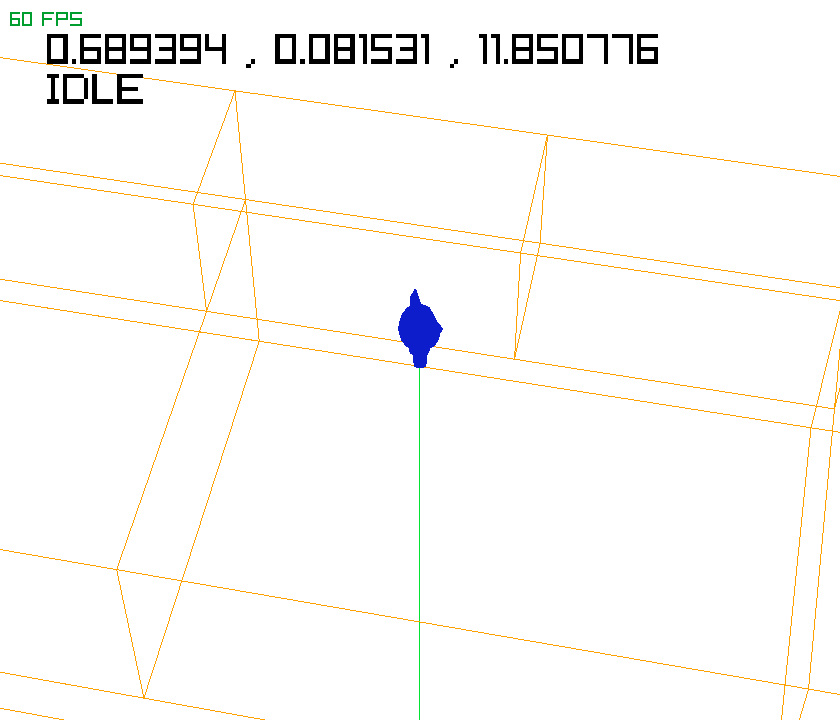
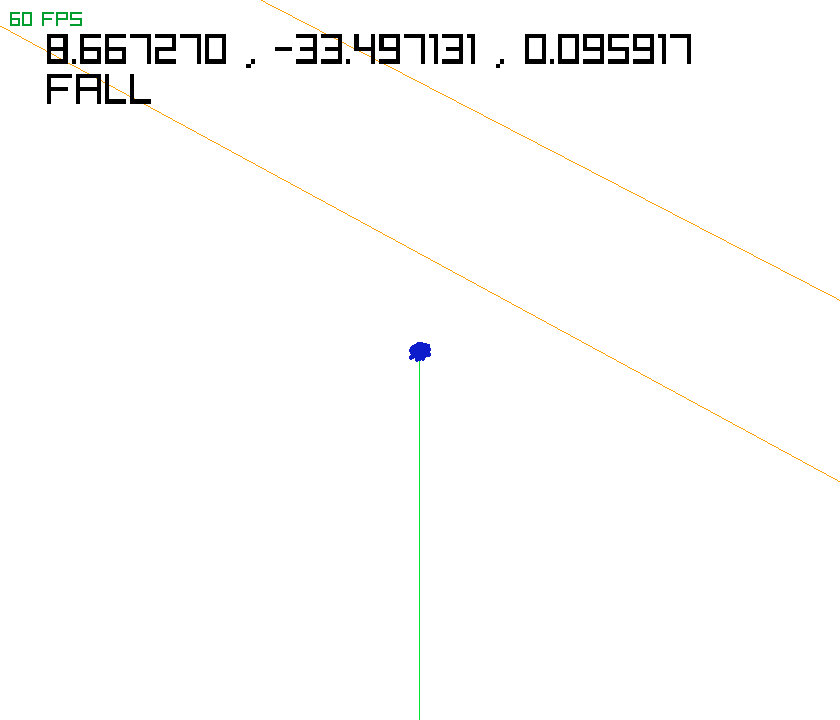
AAAAAAAAAAAAAAAAASDASJDASDSDAASDASDASDASDASDJKASFJLKASFJLKASFJKJKFS

diff --git a/src/player.c b/src/player.c
@@ -35,11 +35,11 @@ unsigned char process_player_is_on_floor(Vector3 position)
 {
 	RayCollision t_rc = {0};
 	
-	for(int i = 0; i < collisions_scene_walls.len; i++)
+	for(int i = 0; i < model_collisions_scene_walls.meshCount; i++)
 	{
-		t_rc = GetRayCollisionBox(
+		t_rc = GetRayCollisionMesh(
 								(Ray){position, DOWN_AXIS},
-								collisions_scene_walls.items[i]
+								model_collisions_scene_walls.meshes[i], MATRIXZERO
 							);
 		if(t_rc.hit)
 		{
@@ -59,54 +59,60 @@ unsigned char process_player_is_on_floor(Vector3 position)
 
 void process_player_collide_walls(float delta, Vector3 temp_position)
 {
-	// Sphere (Vector3){PLAYER.position.x, PLAYER.position.y + .5, PLAYER.position.z}, 0.3f
+	BoundingBox bb = GetModelBoundingBox(model_player);
+	bb.min = Vector3Scale(bb.min, PLAYER.position);
+	bb.max = Vector3Scale(bb.max, PLAYER.position);
+
 	for(int i = 0; i < collisions_scene_walls.len; i++)
+	{
+		
 		if
-		(
-			CheckCollisionBoxSphere(
-				collisions_scene_walls.items[i], 
-				(Vector3){PLAYER.position.x, PLAYER.position.y + .5, PLAYER.position.z}, 0.3f 
+			(
+				CheckCollisionBoxes(
+					collisions_scene_walls.items[i], 
+					bb
+				)
 			)
-		)
-		{
-			if (PLAYER.state == PLAYER_FALL_STATE)
-				if (PLAYER.direction.x == 0 && PLAYER.direction.x == 0)
+			{
+				if (PLAYER.state == PLAYER_FALL_STATE)
+					if (PLAYER.direction.x == 0 && PLAYER.direction.x == 0)
+					{
+						PLAYER.position = Vector3Add(PLAYER.position, Vector3Scale(PLAYER.last_move_direction, delta));
+						return;
+					}
+	
+				PLAYER.position = temp_position;
+				int collide_temp = 0;
+				Vector3 vel_temp = PLAYER.velocity;
+				
+				vel_temp.z = 0; 
+				temp_position = Vector3Add(PLAYER.position, Vector3Scale(vel_temp, delta));
+				for(int j = 0; j < collisions_scene_walls.len; j++)
 				{
-					PLAYER.position = Vector3Add(PLAYER.position, Vector3Scale(PLAYER.last_move_direction, delta));
-					return;
+					collide_temp = CheckCollisionBoxes(
+										collisions_scene_walls.items[i], 
+										Vector3Scale(GetModelBoundingBox(model_player), PLAYER.position), 
+									)
+					if(collide_temp) {break;}
 				}
-
-			PLAYER.position = temp_position;
-			int collide_temp = 0;
-			Vector3 vel_temp = PLAYER.velocity;
-			
-			vel_temp.z = 0; 
-			temp_position = Vector3Add(PLAYER.position, Vector3Scale(vel_temp, delta));
-			for(int j = 0; j < collisions_scene_walls.len; j++)
-			{
-				collide_temp = CheckCollisionBoxSphere(
-									collisions_scene_walls.items[j], 
-									(Vector3){temp_position.x, temp_position.y + .5, temp_position.z}, 0.3f 
-								);
-				if(collide_temp) {break;}
+				if(!collide_temp) {PLAYER.position = temp_position; return;}
+	
+				
+	
+				vel_temp.z = PLAYER.velocity.z;
+				vel_temp.x = 0;
+				temp_position = Vector3Add(PLAYER.position, Vector3Scale(vel_temp, delta));
+				for(int j = 0; j < collisions_scene_walls.len; j++)
+				{
+					collide_temp = CheckCollisionBoxes(
+										collisions_scene_walls.items[i], 
+										Vector3Scale(GetModelBoundingBox(model_player), PLAYER.position), 
+									)
+					if(collide_temp) {return;}
+				}
+				if(!collide_temp) {PLAYER.position = temp_position; return;}
 			}
-			if(!collide_temp) {PLAYER.position = temp_position; return;}
-
-			
-
-			vel_temp.z = PLAYER.velocity.z;
-			vel_temp.x = 0;
-			temp_position = Vector3Add(PLAYER.position, Vector3Scale(vel_temp, delta));
-			for(int j = 0; j < collisions_scene_walls.len; j++)
-			{
-				collide_temp = 	CheckCollisionBoxSphere(
-									collisions_scene_walls.items[j], 
-									(Vector3){temp_position.x, temp_position.y + .5, temp_position.z}, 0.3f 
-								);
-				if(collide_temp) {return;}
-			}
-			if(!collide_temp) {PLAYER.position = temp_position; return;}
-		}
+	}
 }
 
 void player_enter_state(PlayerStates new_state)
@@ -246,7 +252,7 @@ void process_player_fall_state(float delta)
 		PLAYER.position.y = PLAYER.position.y + .01;
 		PLAYER.velocity.y = 0;
 		player_enter_state(PLAYER_IDLE_STATE);
-		return;
+		
 	}
 	////////////////////////////////////////////////
 	

diff --git a/src/utils.c b/src/utils.c
@@ -12,6 +12,8 @@
 #define DOWN_AXIS (Vector3){0,-1,0}
 #define V3ONE (Vector3){1,1,1}
 #define V3ZERO (Vector3){0,0,0}
+#define V4ZERO (Vector4){0,0,0,0}
+#define MATRIXZERO (Matrix){0,0,0,1, 0,0,0,1, 0,0,0,1, 0,0,0,1}
 
 typedef struct 
 {
